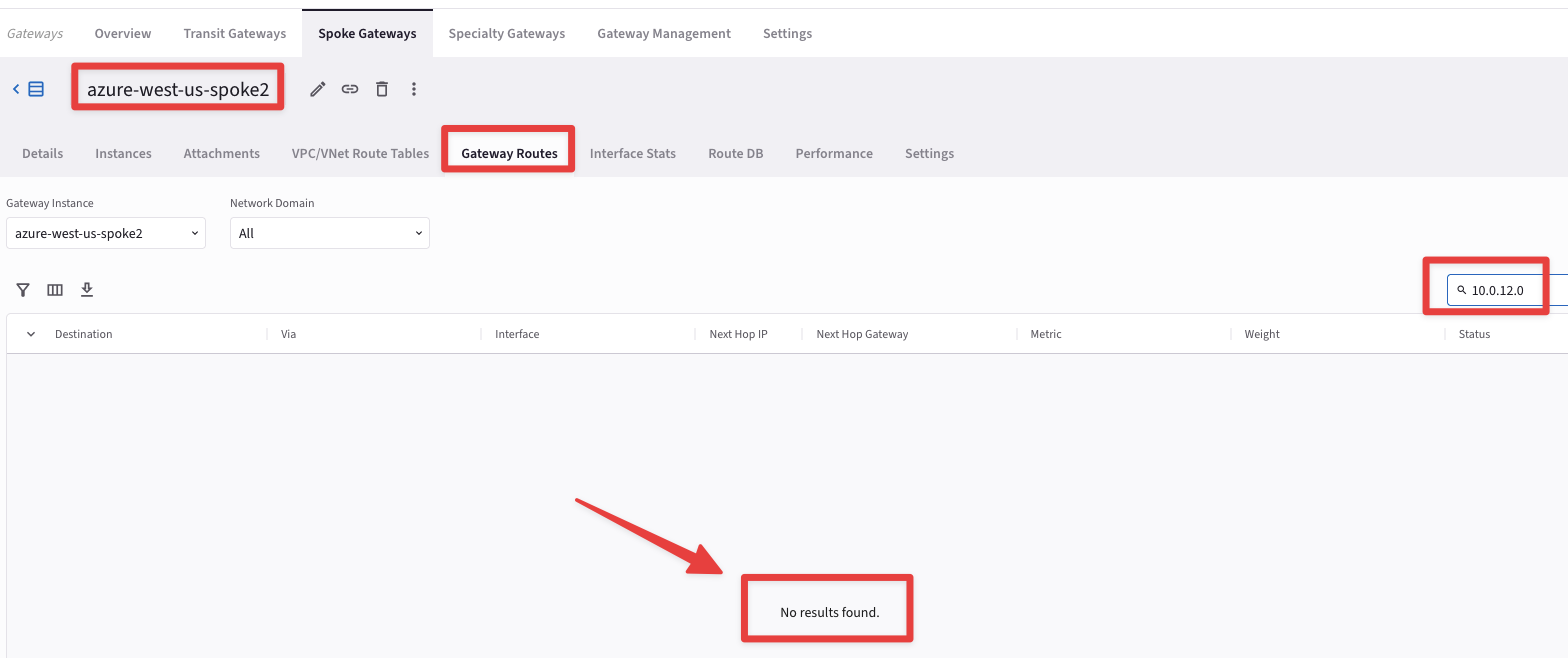
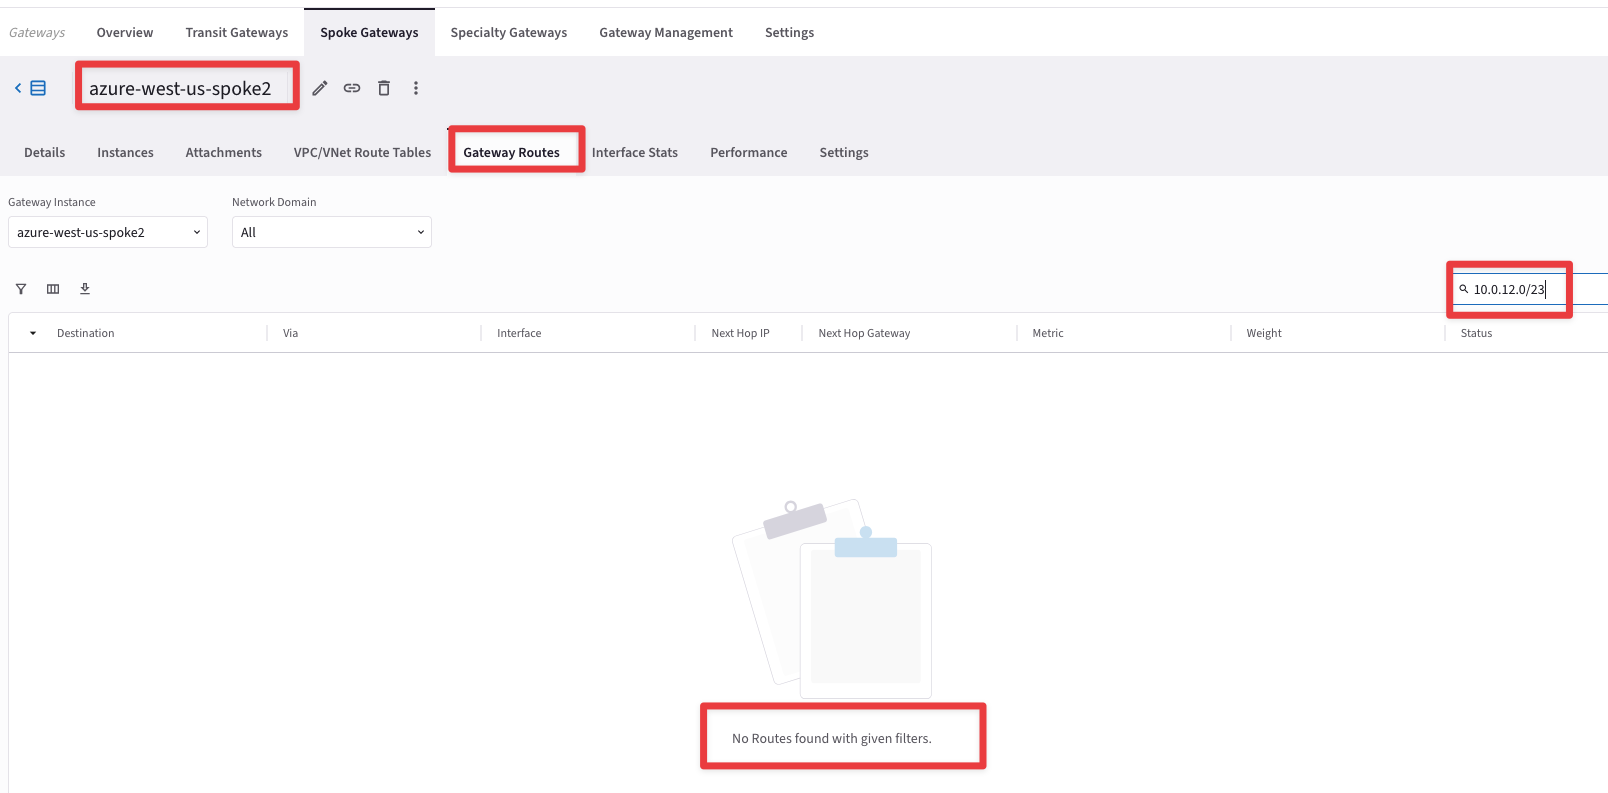
update for pro

diff --git a/ace_pro/docs/lab11.md b/ace_pro/docs/lab11.md
@@ -721,19 +721,11 @@ Create Rule
 
 Enforce this new rule into the Data Plane clicking on the `"Commit"` button.
 
-```{figure} images/lab10-newcommit2.png
----
-height: 300px
-align: center
----
-Commit
-```
-
 ### 9.1 Verify ICMP traffic from bu2 to bu1 Using the Gatus App
 
 Open the Gatus App on **_azure-west-us-spoke2-test1_** and verify the ICMP Traffic.
 
-```{figure} images/lab10-gatus38.png
+```{figure} images/lab10-newcommit2.png
 ---
 align: center
 ---
@@ -787,9 +779,9 @@ align: center
 Monitor
 ```
 
-The logs clearly demonstrate that the inter-rule is successfully permitting ICMP traffic from bu2 to bu1.
+The logs clearly show that the inter-rule is successfully allowing ICMP traffic from bu2 to bu1.
 
-After the creation of the previous inter-rule, this is how the topology with all the permitted protocols will look like.
+After establishing this inter-rule, the topology with all permitted protocols will be represented as follows:
 
 ```{figure} images/lab10-lastdrawing2.png
 ---
@@ -810,15 +802,15 @@ align: center
 From-To
 ```
 
-The inter-rule is **Stateful** in the sense that it will permit the echo-reply generated from the bu1 to reach the instance in bu2.
+The inter-rule is **Stateful**, meaning it allows the echo-reply generated from bu1 to reach the instance in bu2.
 
 ## 11. East-1 and the Multi-Tier Transit
 
 ### 11.1 Activation of the MTT
 
-Let’s now also involve the AWS region **US-EAST-1**.
+Let's now include the AWS region **US-EAST-1**.
 
-This time, you have to allow the ICMP traffic between the Smart Group **bu2** and the ec2 instance **_aws-us-east-1-spoke1-test2_**, solely.
+This time, you need to permit ICMP traffic exclusively between the Smart Group **bu2** and the EC2 instance **_aws-us-east-1-spoke1-test2_**.
 
 ```{figure} images/lab10-newtopology3.png
 ---
@@ -871,7 +863,7 @@ align: center
 azure-west-us-spoke2
 ```
 
-Then click on the `"Gateway Routes"` tab and check whether the destination route is present in the routing table or not.
+Then click on the `"Gateway Routes"` tab and check whether the destination route (i.e. **10.0.12.0/23**) is present in the routing table or not.
 
 ```{figure} images/lab10-gatewayroutes.png
 ---
